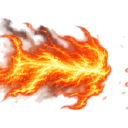
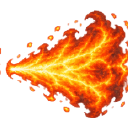
🌊 A arte nova da Firewave entra, e o desenho passa a abrir do mago para fora
Folha do dono, 12 quadros em 4×3, apontando para a direita e ABRINDO EM LEQUE
enquanto avança — feita a partir do prompt que pedia exatamente isso.

🔴 E ela corrige uma discordância que estava de pé: desde 29/09 o dano sai num
CONE que abre com a distância, enquanto a arte era uma rajada RETA. Desenho e
estrago diziam coisas diferentes sobre a mesma magia.

🔴 A arte também mudou o MODELO do desenho. A anterior viajava com a frente; esta
é um leque com o ápice na cauda, e ancorar na cabeça faria o fogo nascer ATRÁS do
mago — o sprite é mais comprido que os dois tiles que a onda percorre no Lv.1.
Agora a cauda fica parada nos pés de quem lançou e o que avança é o leque, quadro
a quadro. É o mesmo desenho que o marcador da mira faz, e os três (área, mira e
animação) passaram a concordar.

Medido antes de cortar: alfa de verdade (64 % transparente), fileiras em [23,320],
[347,672] e [707,976], colunas num passo de 384 exato. Alinhamento pelo EIXO
(`centraY`), porque as fileiras têm 298, 326 e 270 px e numa onda horizontal o que
não pode oscilar é a linha do meio. Saída 152×128, a proporção da fonte.

Os três atos saem da massa de cada quadro: cresce 0–6 (1539 → 10605), dissipa 7–11.

⚠ E a célula passou a ser lida da própria textura em vez de escrita no código —
o 128 cravado ali era o número da folha antiga copiado para um lugar onde ninguém
o recalcula.

O ícone foi regerado do quadro 5 da folha nova.
[…]

diff --git a/client/src/main.ts b/client/src/main.ts
@@ -5082,103 +5082,80 @@ async function startGame(playerName: string, charClass: PlayerClass, gender: Gen
    * *"era para substituir isso, não a animação da magia em si"*). A arte do cone
    * desenha a ÁREA antes do clique, no lugar do selo circular; a rajada que sai
    * depois continua sendo esta. Ver `CONE_MIRA`.
-   */
   /**
-   * 🌊 **UMA onda, UM desenho — movido pelos passos que o servidor manda.**
+   * 🌊 **UMA onda, UM desenho — ancorado na CAUDA e crescendo para a frente.**
    *
-   * 🔴 O servidor manda um `fx` por tile percorrido. A tentação é desenhar um
-   * efeito por pacote, e o resultado são seis rajadas empilhadas no rastro em vez
-   * de uma que anda. Por isso o `ondaId`: o segundo pacote encontra o sprite do
-   * primeiro e o REPOSICIONA.
+   * 🔴 **A arte de 29/09 mudou o modelo.** A anterior era uma rajada reta, e o
+   * desenho viajava com a frente. Esta é um LEQUE com o ápice na cauda — ancorar na
+   * cabeça faria o fogo nascer atrás do mago, porque o sprite é mais comprido que
+   * os dois tiles que a onda percorre no Lv.1.
    *
-   * ⚠ **Quem manda no quadro é o PASSO, não o relógio.** A folha tem doze: os
-   * cinco primeiros são a rajada crescendo e os sete últimos a dissipação. Deixar
-   * a animação correr sozinha faria o desenho dissipar no meio do percurso quando
-   * a onda fosse longa, e chegar ao fim ainda pequena quando fosse curta — a
-   * velocidade de quem anda é do servidor, e o cliente não guarda cópia dela.
+   * ✅ Então a cauda fica PARADA nos pés de quem lançou e o que avança é o leque,
+   * quadro a quadro. É o mesmo desenho que o marcador da mira faz, e agora os dois
+   * concordam com a ÁREA — que também é um cone com o ápice no mago.
    *
-   * ⚠ **A dissipação começa no ÚLTIMO passo**, e o cliente sabe qual é porque o
-   * `n` do pacote diz quantos a conjuração tem — que é o significado que esse
-   * campo sempre teve. Esperar por um silêncio no lugar disso seria o cliente
-   * adivinhando a velocidade da magia.
+   * ⚠ **Quem manda no quadro é o PASSO, não o relógio.** O servidor manda um `fx`
+   * por tile percorrido e diz no `n` quantos a conjuração tem; deixar a animação
+   * correr sozinha faria o leque abrir todo antes de o dano chegar à borda. A
+   * velocidade é do servidor, e o cliente não guarda cópia dela.
+   *
+   * ⚠ **E o `ondaId` é o que impede seis desenhos empilhados**: sem ele, cada
+   * passo abriria uma rajada nova por cima da anterior.
    */
-  const ondasVivas = new Map<string, { s: AnimatedSprite; passo: number; alvoX: number; alvoY: number }>();
-  /** Quadros de AVANÇO da folha; do índice 5 em diante é fumaça. */
-  const ONDA_AVANCO = 5;
+  const ondasVivas = new Map<string, { s: AnimatedSprite; passo: number }>();
+  /** Quadros de AVANÇO da folha; do índice 7 em diante é dissipação. Medido pela massa. */
+  const ONDA_AVANCO = 7;
 
   function desenhaOnda(msg: S2C_Effect): void {
     const quadros = folhasEfeito.get('firewave');
     if (!quadros || quadros.length <= ONDA_AVANCO) return;
     const id = msg.ondaId ?? 'onda';
-    const x = msg.x * TS + TS / 2;
-    const y = msg.y * TS + TS / 2;
+    const passos = msg.n ?? 1;
 
     let viva = ondasVivas.get(id);
     if (!viva) {
       const s2 = new AnimatedSprite(quadros);
       /*
-       * ⚠ **Âncora na CABEÇA da rajada**, medida: a arte aponta para a direita e o
-       * fogo termina perto da borda direita da célula. É a cabeça que tem de estar
-       * no tile do passo — a cauda fica para trás, que é de onde a onda veio.
+       * ⚠ **Âncora na CAUDA**, medida: o leque começa a uns 5 px da borda esquerda
+       * da célula em todos os quadros. É o único ponto que não se mexe, e é onde o
+       * personagem está.
        */
-      s2.anchor.set(0.92, 0.5);
+      s2.anchor.set(0.04, 0.5);
       s2.loop = false;
       s2.animationSpeed = 0;
       s2.eventMode = 'none';
       /*
-       * ⚠ A altura sai da LARGURA da faixa que fere ((raio×2+1) tiles), e a
-       * largura vem junto pela proporção da folha. É a mesma regra da muralha: o
-       * desenho no tamanho do estrago, não o estrago no tamanho do desenho.
+       * 🌊 A onda nasce na ORIGEM, que o `fx` traz em `fromX/fromY`. O `x/y` do
+       * pacote é a FRENTE; ancorar ali poria a cauda na borda do cone.
        */
-      const faixa = ((msg.radius ?? 1) * 2 + 1) * TS;
-      s2.scale.set(faixa / 128);
-      s2.x = x;
-      s2.y = y;
+      s2.x = (msg.fromX ?? msg.x) * TS + TS / 2;
+      s2.y = (msg.fromY ?? msg.y) * TS + TS / 2;
+      s2.rotation = msg.rumo ?? 0;
+      /*
+       * ⚠ **O comprimento sai do ALCANCE**, para a ponta do leque cair no último
+       * tile que o dano pega. E a célula é lida da própria textura: escrever 152
+       * aqui seria o número da folha copiado para um lugar onde ninguém o recalcula
+       * — a família de defeito que mais se repete neste projeto.
+       */
+      s2.scale.set((passos * TS) / quadros[0]!.width);
       s2.zIndex = 9998;
       fxLayer.addChild(s2);
-      viva = { s: s2, passo: 0, alvoX: x, alvoY: y };
+      viva = { s: s2, passo: 0 };
       ondasVivas.set(id, viva);
     }
     const atual = viva;
     atual.passo += 1;
-    atual.alvoX = x;
-    atual.alvoY = y;
-    atual.s.rotation = msg.rumo ?? 0;
-    atual.s.gotoAndStop(Math.min(atual.passo - 1, ONDA_AVANCO - 1));
+    // O leque abre junto com o avanço: no último passo ele está inteiro.
+    const fracao = passos > 1 ? (atual.passo - 1) / (passos - 1) : 1;
+    atual.s.gotoAndStop(Math.min(ONDA_AVANCO - 1, Math.round(fracao * (ONDA_AVANCO - 1))));
 
-    /*
-     * ⚠ **O deslízio entre um passo e o seguinte** — sem ele a onda anda aos
-     * saltos de um tile a cada 90 ms, que é o mesmo defeito que o `setTarget` das
-     * entidades existe para evitar.
-     */
-    if (atual.passo === 1) {
-      const desliza = (): void => {
-        if (atual.s.destroyed) { app.ticker.remove(desliza); return; }
-        atual.s.x += (atual.alvoX - atual.s.x) * 0.35;
-        atual.s.y += (atual.alvoY - atual.s.y) * 0.35;
-      };
-      app.ticker.add(desliza);
-    }
-
-    // Último passo: a rajada se desfaz e some.
-    if (atual.passo >= (msg.n ?? 1)) {
+    if (atual.passo >= passos) {
       ondasVivas.delete(id);
       atual.s.textures = quadros.slice(ONDA_AVANCO);
       atual.s.loop = false;
-      atual.s.animationSpeed = (quadros.length - ONDA_AVANCO) / (420 / (1000 / 60));
-      /*
-       * ⚠ **O alfa cai junto com a animação.** Os dois últimos quadros da folha
-       * são fumaça ESCURA, e sobre a grama eles leem como uma mancha preta parada.
-       * Apagando, a fumaça some como fumaça.
-       */
-      const morre = (): void => {
-        if (atual.s.destroyed) { app.ticker.remove(morre); return; }
-        atual.s.alpha -= 0.035;
-        if (atual.s.alpha <= 0) { app.ticker.remove(morre); atual.s.destroy(); }
-      };
+      atual.s.animationSpeed = (quadros.length - ONDA_AVANCO) / (380 / (1000 / 60));
       atual.s.onComplete = () => { if (!atual.s.destroyed) atual.s.destroy(); };
       atual.s.gotoAndPlay(0);
-      app.ticker.add(morre);
     }
   }
 
